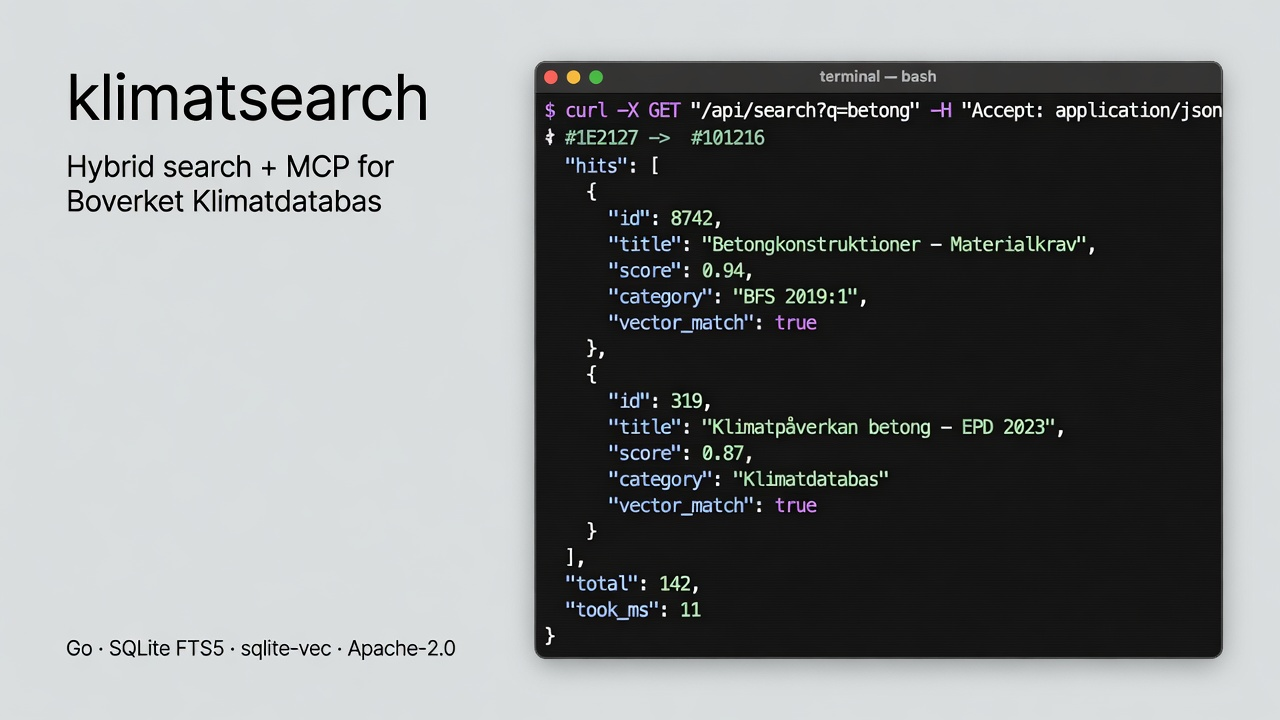
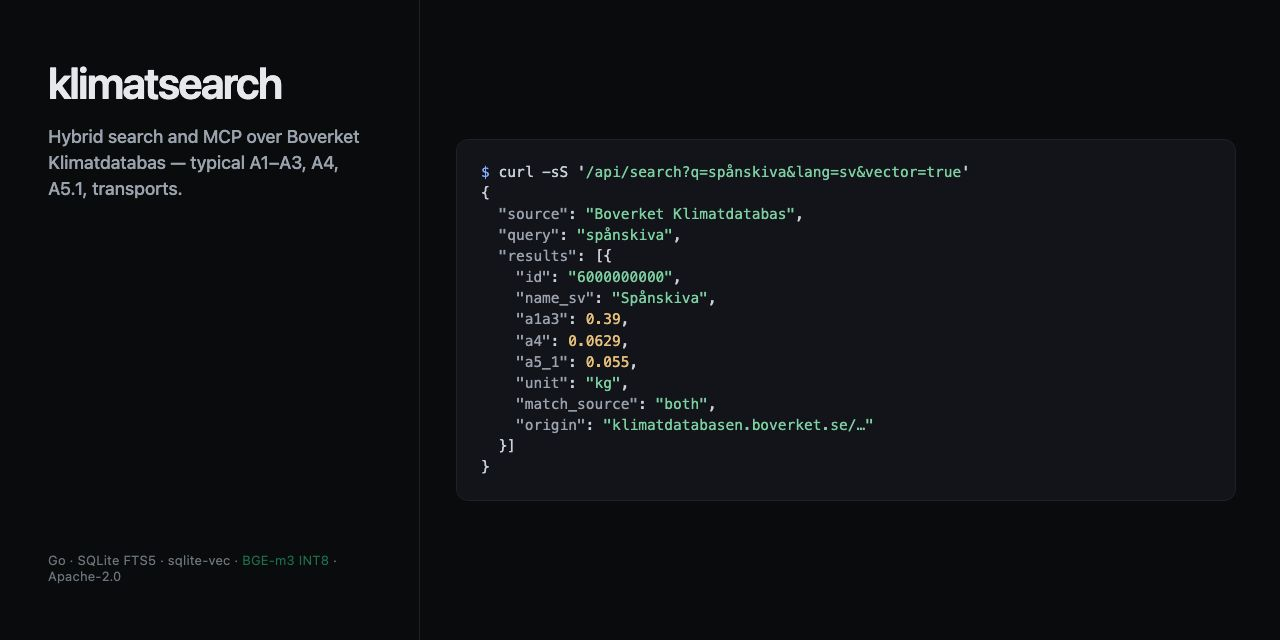
docs: eval Use column and realistic Klimatdatabas images
Mark BGE-m3 INT8 as the only reranker to ship on the golden table.
Replace the invented search screenshot with a real Spånskiva payload
(A1–A3, A4, A5.1) and a photo of particle board, ready-mix, and glass wool.

diff --git a/site/assets/og.html b/site/assets/og.html
@@ -1,0 +1,71 @@
+<!DOCTYPE html>
+<html lang="en">
+<head>
+  <meta charset="utf-8" />
+  <style>
+    @import url("https://fonts.googleapis.com/css2?family=Inter:wght@500;600&family=JetBrains+Mono:wght@400;500&display=swap");
+    * { box-sizing: border-box; margin: 0; padding: 0; }
+    html, body { width: 1280px; height: 640px; overflow: hidden; background: #0A0B0D; }
+    body {
+      display: grid;
+      grid-template-columns: 420px 1fr;
+      font-family: Inter, system-ui, sans-serif;
+      color: #E6E8EB;
+    }
+    .left {
+      padding: 56px 48px;
+      display: flex;
+      flex-direction: column;
+      justify-content: space-between;
+      border-right: 1px solid #1E2127;
+    }
+    h1 { font-size: 44px; letter-spacing: -0.04em; font-weight: 600; }
+    .sub { margin-top: 16px; font-size: 18px; line-height: 1.45; color: #9aa3ad; font-weight: 500; }
+    .meta { font-size: 13px; color: #6b737c; letter-spacing: 0.02em; }
+    .meta span { color: #1F6F4A; }
+    .frame { padding: 40px 44px 40px 36px; display: flex; align-items: center; }
+    pre {
+      width: 100%;
+      background: #12141a;
+      border: 1px solid #1E2127;
+      border-radius: 12px;
+      padding: 22px 24px;
+      font-family: "JetBrains Mono", ui-monospace, monospace;
+      font-size: 14.5px;
+      line-height: 1.45;
+      color: #c9d0d8;
+    }
+    .cmd { color: #82AAFF; }
+    .k { color: #9aa3ad; }
+    .s { color: #7dcea0; }
+    .n { color: #e6c07b; }
+    .dim { color: #5c6570; }
+  </style>
+</head>
+<body>
+  <div class="left">
+    <div>
+      <h1>klimatsearch</h1>
+      <p class="sub">Hybrid search and MCP over Boverket Klimatdatabas — typical A1–A3, A4, A5.1, transports.</p>
+    </div>
+    <p class="meta">Go · SQLite FTS5 · sqlite-vec · <span>BGE-m3 INT8</span> · Apache-2.0</p>
+  </div>
+  <div class="frame">
+<pre><span class="cmd">$</span> curl -sS '<span class="s">/api/search?q=spånskiva&amp;lang=sv&amp;vector=true</span>'
+{
+  <span class="k">"source"</span>: <span class="s">"Boverket Klimatdatabas"</span>,
+  <span class="k">"query"</span>: <span class="s">"spånskiva"</span>,
+  <span class="k">"results"</span>: [{
+    <span class="k">"id"</span>: <span class="s">"6000000000"</span>,
+    <span class="k">"name_sv"</span>: <span class="s">"Spånskiva"</span>,
+    <span class="k">"a1a3"</span>: <span class="n">0.39</span>,
+    <span class="k">"a4"</span>: <span class="n">0.0629</span>,
+    <span class="k">"a5_1"</span>: <span class="n">0.055</span>,
+    <span class="k">"unit"</span>: <span class="s">"kg"</span>,
+    <span class="k">"match_source"</span>: <span class="s">"both"</span>,
+    <span class="k">"origin"</span>: <span class="s">"klimatdatabasen.boverket.se/…"</span>
+  }]
+}</pre>
+  </div>
+</body>
+</html>

diff --git a/site/index.html b/site/index.html
@@ -35,7 +35,7 @@
   <header class="wrap hero">
     <div>
       <h1>Search Klimatdatabas inside one process. <span>FTS, vectors, REST, and MCP in a binary you run.</span></h1>
-      <p class="lead">Generic Swedish construction resources, bilingual, with typical A1–A3. Agents and tools query it; every response cites Boverket. Not affiliated with Boverket.</p>
+      <p class="lead">Generic Swedish construction resources, bilingual: typical and conservative A1–A3, A4, A5.1, transports. Agents and tools query it; every response cites Boverket. Not affiliated with Boverket.</p>
       <div class="hero-actions">
         <a class="btn-primary" href="https://github.com/mong-x/klimatsearch">github.com/mong-x/klimatsearch</a>
         <a class="btn-ghost" href="./swagger/">OpenAPI / Swagger</a>

diff --git a/README.md b/README.md
@@ -1,6 +1,6 @@
 <div align="center">
 
-<img src="https://capsule-render.vercel.app/api?type=waving&color=0:0A0B0D,45:1F6F4A,100:82AAFF&height=200&section=header&text=klimatsearch&fontColor=E6E8EB&fontSize=64&fontAlignY=38&animation=fadeIn&desc=Hybrid%20search%20%2B%20MCP%20for%20Boverket%20Klimatdatabas&descSize=16&descAlignY=62" width="100%" alt="klimatsearch — hybrid search and MCP for Boverket Klimatdatabas" />
+<img src="site/assets/hero.jpg" alt="Particle board, ready-mix concrete, and glass wool — generic construction resources from Boverket Klimatdatabas" width="100%" />
 
 [![CI](https://img.shields.io/github/actions/workflow/status/mong-x/klimatsearch/ci.yml?branch=main&style=for-the-badge&logo=githubactions&logoColor=E6E8EB&label=CI&labelColor=0A0B0D&color=1F6F4A)](https://github.com/mong-x/klimatsearch/actions/workflows/ci.yml)
 [![kind e2e](https://img.shields.io/github/actions/workflow/status/mong-x/klimatsearch/e2e-kind.yml?branch=main&style=for-the-badge&logo=kubernetes&logoColor=E6E8EB&label=kind%20e2e&labelColor=0A0B0D&color=82AAFF)](https://github.com/mong-x/klimatsearch/actions/workflows/e2e-kind.yml)
@@ -19,7 +19,7 @@
 </div>
 
 <p align="center">
-  <img src="site/assets/og.jpg" alt="klimatsearch: hybrid search and MCP over Boverket Klimatdatabas, shown as a terminal GET /api/search?q=betong" width="920" />
+  <img src="site/assets/og.jpg" alt="Real klimatsearch response for q=spånskiva: Resource 6000000000 with typical A1–A3 0.39, A4 0.0629, A5.1 0.055" width="920" />
 </p>
 
 ## Introduction
@@ -175,14 +175,16 @@ Measured on Boverket Klimatdatabas **02.07.000** (230 resources) with 44 labeled
 
 `make eval-golden` — F2LLM-ingested `data/klimat.db`, not the Fake embedder.
 
-| Stage | Hit@1 | Hit@3 | MRR | Inversions | Miss@20 | p50 |
-| --- | ---: | ---: | ---: | ---: | ---: | ---: |
-| FTS only | 0.750 | 0.750 | 0.750 | 0.000 | 0.250 | 0.1 ms |
-| Hybrid (FTS + F2LLM) | 0.955 | 0.977 | 0.972 | 0.045 | **0.000** | 112 ms |
-| Hybrid + BGE-m3 fp32 | 0.955 | **1.000** | 0.977 | 0.045 | **0.000** | 11.1 s |
-| Hybrid + **BGE-m3 INT8** | **1.000** | **1.000** | **1.000** | **0.000** | **0.000** | **7.3 s** |
-| Hybrid + zerank-1-small fp32 | 0.955 | **1.000** | 0.977 | 0.045 | **0.000** | 42.3 s |
-| Hybrid + zerank-1-small INT8 | 0.568 | 0.864 | 0.731 | 0.273 | **0.000** | 14.9 s |
+**Ship this:** hybrid retrieval (F2LLM) + **BGE-m3 INT8** rerank. That is the only lane with 44/44 Hit@1.
+
+| Stage | Use | Hit@1 | Hit@3 | MRR | Inversions | Miss@20 | p50 |
+| --- | --- | ---: | ---: | ---: | ---: | ---: | ---: |
+| FTS only | Always on (cheap lexical) | 0.750 | 0.750 | 0.750 | 0.000 | 0.250 | 0.1 ms |
+| Hybrid (FTS + F2LLM) | **Default retrieval** (`vector=true`) | 0.955 | 0.977 | 0.972 | 0.045 | **0.000** | 112 ms |
+| Hybrid + BGE-m3 fp32 | Skip — INT8 is better and faster | 0.955 | **1.000** | 0.977 | 0.045 | **0.000** | 11.1 s |
+| Hybrid + **BGE-m3 INT8** | **Use this reranker** (`KLIMAT_RERANKER=onnx`, `KLIMAT_ONNX_QUANT=auto`) | **1.000** | **1.000** | **1.000** | **0.000** | **0.000** | **7.3 s** |
+| Hybrid + zerank-1-small fp32 | Skip — same Hit@1 as BGE fp32, ~6× slower | 0.955 | **1.000** | 0.977 | 0.045 | **0.000** | 42.3 s |
+| Hybrid + zerank-1-small INT8 | **Never** — ranking is broken | 0.568 | 0.864 | 0.731 | 0.273 | **0.000** | 14.9 s |
 
 INT8 vs fp32 top-1 agreement: BGE **0.955** (INT8 *fixes* the two remaining fp32 inversions). zerank **0.568** — INT8 is not a drop-in for that graph.
 
@@ -197,7 +199,7 @@ INT8 vs fp32 top-1 agreement: BGE **0.955** (INT8 *fixes* the two remaining fp32
 | **Miss@20** | Labeled id not in the 20-hit window at all. Hybrid/rerank cannot recover a document that retrieval never saw. |
 | **p50** | Median time to score one query at that stage (20 candidates for rerank). |
 
-**How to read this snapshot.** Keyword search is fast and brittle: 75% Hit@1, and **11/44 queries return no FTS hits**. F2LLM hybrid recovers every miss and is the quality jump (two sibling inversions remain: klimatförbättrad C-class vs ordinary). **BGE-m3 INT8 is the production reranker**: 44/44 Hit@1, no inversions, ~35% faster than BGE fp32. BGE fp32 and zerank fp32 tie at 95.5% Hit@1; zerank fp32 costs ~42 s. **Do not ship zerank INT8** on this export (Hit@1 56.8%). `KLIMAT_ONNX_QUANT=auto` already prefers `model.int8.onnx`.
+**How to read this snapshot.** Keyword search is fast and brittle: 75% Hit@1, and **11/44 queries return no FTS hits**. F2LLM hybrid recovers every miss (two sibling inversions remain: klimatförbättrad C-class vs ordinary). **BGE-m3 INT8 is the only reranker to ship**: 44/44 Hit@1, no inversions, faster than BGE fp32. Skip BGE fp32 and zerank fp32. **Never ship zerank INT8** (Hit@1 56.8%). `KLIMAT_ONNX_QUANT=auto` already prefers BGE `model.int8.onnx`.
 
 Reproduce:
 
@@ -313,9 +315,6 @@ Full index: **[docs/README.md](docs/README.md)**.
 
 [Apache-2.0](./LICENSE). Klimatdatabas content remains Boverket's; cite **Boverket Klimatdatabas** on every public surface.
 
-README header by [capsule-render](https://github.com/kyechan99/capsule-render).
-
 <div align="center">
-<img src="https://capsule-render.vercel.app/api?type=waving&color=0:82AAFF,55:1F6F4A,100:0A0B0D&height=120&section=footer" width="100%" alt="" />
 <sub>Search Klimatdatabas. Cite Boverket.</sub>
 </div>

diff --git a/docs/AGENT-SELFHOST.md b/docs/AGENT-SELFHOST.md
@@ -42,7 +42,7 @@ Cite **Boverket Klimatdatabas** on every answer. Follow `origin` (or `GET {detai
 | --- | --- | --- |
 | FTS (default REST) | Exact or near-exact name in the query language | 0.1 ms, no ONNX |
 | `vector=true` | Paraphrase, translation, missing FTS tokens | ~112 ms, F2LLM |
-| `rerank=true` | Sibling grades after hybrid | **~7.3 s p50** with **BGE-m3 INT8** (44/44 Hit@1). BGE fp32 ~11 s; zerank fp32 ~42 s, same Hit@1 as BGE fp32. **Do not use zerank INT8** (Hit@1 0.57). |
+| `rerank=true` | Sibling grades after hybrid | **Use BGE-m3 INT8 only** (~7.3 s p50, 44/44 Hit@1). Skip BGE fp32 and zerank fp32. **Never zerank INT8** (Hit@1 0.57). |
 
 REST defaults **both flags off**. MCP sets vector/rerank from process config (`KLIMAT_RERANKER=onnx` ⇒ every MCP search reranks). For a high-QPS agent fleet, run a pool with `KLIMAT_RERANKER=none` and call REST `vector=true` without rerank unless the top hits are the same family.
 
